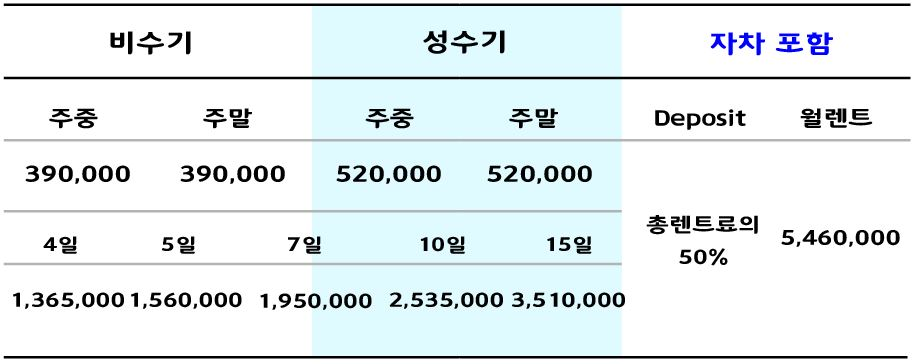
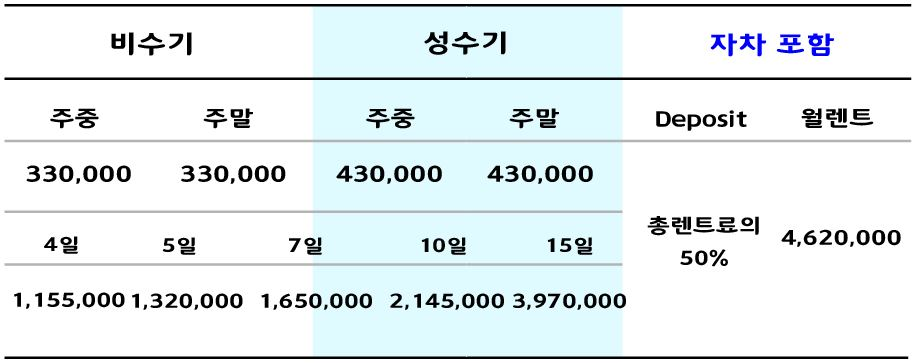
travel 캠핑카 가격 수정

diff --git a/src/main/resources/templates/index.html b/src/main/resources/templates/index.html
@@ -146,213 +146,213 @@
 
 
     <!--home mobile Section -->
-    <section id="home" class="home">
-        <div class="container" style="padding: 0px;">
-            <div class="row">
-                <div class="col-sm-12 col-lg-12 col-xs-12 col-md-12" style="margin-top: 105px;">
-                    <div class="service-block-mobile text-center align-center">
+<!--    <section id="home" class="home">-->
+<!--        <div class="container" style="padding: 0px;">-->
+<!--            <div class="row">-->
+<!--                <div class="col-sm-12 col-lg-12 col-xs-12 col-md-12" style="margin-top: 105px;">-->
+<!--                    <div class="service-block-mobile text-center align-center">-->
 
-                        <!-- service content -->
-                        <div class="service-img-main ">
-                            <p>세이브카 Service</p>
-                        </div>
-                    </div>
-                </div>
-            </div>
+<!--                        &lt;!&ndash; service content &ndash;&gt;-->
+<!--                        <div class="service-img-main ">-->
+<!--                            <p>세이브카 Service</p>-->
+<!--                        </div>-->
+<!--                    </div>-->
+<!--                </div>-->
+<!--            </div>-->
 
-            <div class="row" style="margin-right: -5px; margin-left: -5px;">
-                <div class="col-sm-1 col-lg-1 col-xs-1 col-md-1">
+<!--            <div class="row" style="margin-right: -5px; margin-left: -5px;">-->
+<!--                <div class="col-sm-1 col-lg-1 col-xs-1 col-md-1">-->
 
-                </div>
-                <div class="col-sm-10 col-lg-10 col-xs-10 col-md-10">
-                    <a href="/rent/month">
-                        <div class="row" style="margin: 0 -20px; border: 2px solid #2b2d2c; border-radius: 20px; background: black">
-
-
-                            <div class="col-sm-6 col-lg-6 col-xs-6 col-md-6" style="margin-top: 25px;">
-                                <div class="service-block-mobile text-center align-center">
-                                    <img th:src="@{/img/main-card-monthly.png}" width="70%" height="100" style="border-radius: 30%">
-                                </div>
-                            </div>
-                            <div class="col-sm-6 col-lg-6 col-xs-6 col-md-6">
-                                <div class="row">
-
-                                    <!-- service block -->
-                                    <div class="service-content-mobile text-center" style="height: 80px; padding: 20px 20px 0 0; line-height: 0;">
-                                        <h2 style="font-family: 'Black Han Sans', sans-serif;color: whitesmoke;margin: 0;">월렌트+</h2>
-                                        <h2 style="font-family: 'Black Han Sans', sans-serif;color: whitesmoke;margin: 0;">12/24개월렌트</h2>
-                                    </div>
-                                    <br>
-                                    <!-- service content -->
-    <!--                                    <div class="service-img-main" style="padding-top: 40px;">-->
-    <!--                                        <p style="font-size: 1.6rem; color: whitesmoke; margin: 0px;">월 단위로 대여하는 상품입니다.</p>-->
-    <!--                                        <p style="font-size: 1.6rem; color: whitesmoke">실시간으로 가격을 조회해보실 수 있습니다.</p>-->
-    <!--                                    </div>-->
-
-                                </div>
-                                <div class="row">
-
-                                    <!-- service img -->
-                                    <div class="service-content text-center"  style="padding: 0 20px 0 0; margin-bottom: 15px">
-                                        <img th:src="@{/img/arrow1.png}" width="30" height="30"  style="border-radius: 50%">
-                                    </div>
-
-                                </div>
-
-                            </div>
-                        </div>
-                    </a>
-                </div>
-
-                <div class="col-sm-1 col-lg-1 col-xs-1 col-md-1">
-
-                </div>
-            </div>
-
-            <!-- -->
-
-            <div class="row" style="margin-right: -5px; margin-left: -5px;">
-                <div class="col-sm-1 col-lg-1 col-xs-1 col-md-1">
-
-                </div>
-                <div class="col-sm-10 col-lg-10 col-xs-10 col-md-10">
-                    <a href="/rent/month">
-                        <div class="row" style="margin: 0 -20px; border: 2px solid #c70808; border-radius: 20px; background: white">
+<!--                </div>-->
+<!--                <div class="col-sm-10 col-lg-10 col-xs-10 col-md-10">-->
+<!--                    <a href="/rent/month">-->
+<!--                        <div class="row" style="margin: 0 -20px; border: 2px solid #2b2d2c; border-radius: 20px; background: black">-->
 
 
-                            <div class="col-sm-6 col-lg-6 col-xs-6 col-md-6" style="margin-top: 25px;">
-                                <div class="service-block-mobile text-center align-center">
-                                    <img th:src="@{/img/main-card-yearly.png}" width="70%" height="100" style="border-radius: 30%">
-                                </div>
-                            </div>
-                            <div class="col-sm-6 col-lg-6 col-xs-6 col-md-6">
-                                <div class="row">
+<!--                            <div class="col-sm-6 col-lg-6 col-xs-6 col-md-6" style="margin-top: 25px;">-->
+<!--                                <div class="service-block-mobile text-center align-center">-->
+<!--                                    <img th:src="@{/img/main-card-monthly.png}" width="70%" height="100" style="border-radius: 30%">-->
+<!--                                </div>-->
+<!--                            </div>-->
+<!--                            <div class="col-sm-6 col-lg-6 col-xs-6 col-md-6">-->
+<!--                                <div class="row">-->
 
-                                    <!-- service block -->
-                                    <div class="service-content-mobile text-center" style="height: 80px; padding: 20px 20px 0 0; line-height: 0;">
-                                        <h2 style="font-family: 'Black Han Sans', sans-serif;color: black;margin: 0;">누구나</h2>
-                                        <h2 style="font-family: 'Black Han Sans', sans-serif;color: black;margin: 0;">장기렌트</h2>
-                                    </div>
-                                    <br>
-                                    <!-- service content -->
-                                    <!--                                    <div class="service-img-main" style="padding-top: 40px;">-->
-                                    <!--                                        <p style="font-size: 1.6rem; color: whitesmoke; margin: 0px;">월 단위로 대여하는 상품입니다.</p>-->
-                                    <!--                                        <p style="font-size: 1.6rem; color: whitesmoke">실시간으로 가격을 조회해보실 수 있습니다.</p>-->
-                                    <!--                                    </div>-->
+<!--                                    &lt;!&ndash; service block &ndash;&gt;-->
+<!--                                    <div class="service-content-mobile text-center" style="height: 80px; padding: 20px 20px 0 0; line-height: 0;">-->
+<!--                                        <h2 style="font-family: 'Black Han Sans', sans-serif;color: whitesmoke;margin: 0;">월렌트+</h2>-->
+<!--                                        <h2 style="font-family: 'Black Han Sans', sans-serif;color: whitesmoke;margin: 0;">12/24개월렌트</h2>-->
+<!--                                    </div>-->
+<!--                                    <br>-->
+<!--                                    &lt;!&ndash; service content &ndash;&gt;-->
+<!--    &lt;!&ndash;                                    <div class="service-img-main" style="padding-top: 40px;">&ndash;&gt;-->
+<!--    &lt;!&ndash;                                        <p style="font-size: 1.6rem; color: whitesmoke; margin: 0px;">월 단위로 대여하는 상품입니다.</p>&ndash;&gt;-->
+<!--    &lt;!&ndash;                                        <p style="font-size: 1.6rem; color: whitesmoke">실시간으로 가격을 조회해보실 수 있습니다.</p>&ndash;&gt;-->
+<!--    &lt;!&ndash;                                    </div>&ndash;&gt;-->
 
-                                </div>
-                                <div class="row">
+<!--                                </div>-->
+<!--                                <div class="row">-->
 
-                                    <!-- service img -->
-                                    <div class="service-content text-center"  style="padding: 0 20px 0 0; margin-bottom: 15px">
-                                        <img th:src="@{/img/arrow1.png}" width="30" height="30"  style="border-radius: 50%">
-                                    </div>
+<!--                                    &lt;!&ndash; service img &ndash;&gt;-->
+<!--                                    <div class="service-content text-center"  style="padding: 0 20px 0 0; margin-bottom: 15px">-->
+<!--                                        <img th:src="@{/img/arrow1.png}" width="30" height="30"  style="border-radius: 50%">-->
+<!--                                    </div>-->
 
-                                </div>
+<!--                                </div>-->
 
-                            </div>
-                        </div>
-                    </a>
-                </div>
+<!--                            </div>-->
+<!--                        </div>-->
+<!--                    </a>-->
+<!--                </div>-->
 
-                <div class="col-sm-1 col-lg-1 col-xs-1 col-md-1">
+<!--                <div class="col-sm-1 col-lg-1 col-xs-1 col-md-1">-->
 
-                </div>
-            </div>
+<!--                </div>-->
+<!--            </div>-->
 
-            <!-- -->
-            <div class="row" style="margin-right: -5px; margin-left: -5px;">
-                <div class="col-sm-1 col-lg-1 col-xs-1 col-md-1">
+<!--            &lt;!&ndash; &ndash;&gt;-->
 
-                </div>
-                <div class="col-sm-10 col-lg-10 col-xs-10 col-md-10">
-                    <a href="/rent/month">
-                        <div class="row" style="margin: 0 -20px; border: 2px solid #4e4c4c; border-radius: 20px; background: #4e4c4c">
+<!--            <div class="row" style="margin-right: -5px; margin-left: -5px;">-->
+<!--                <div class="col-sm-1 col-lg-1 col-xs-1 col-md-1">-->
+
+<!--                </div>-->
+<!--                <div class="col-sm-10 col-lg-10 col-xs-10 col-md-10">-->
+<!--                    <a href="/rent/month">-->
+<!--                        <div class="row" style="margin: 0 -20px; border: 2px solid #c70808; border-radius: 20px; background: white">-->
 
 
-                            <div class="col-sm-6 col-lg-6 col-xs-6 col-md-6" style="margin-top: 25px;">
-                                <div class="service-block-mobile text-center align-center">
-                                    <img th:src="@{/img/main-card-camp.png}" width="70%" height="100" style="border-radius: 30%">
-                                </div>
-                            </div>
-                            <div class="col-sm-6 col-lg-6 col-xs-6 col-md-6">
-                                <div class="row">
+<!--                            <div class="col-sm-6 col-lg-6 col-xs-6 col-md-6" style="margin-top: 25px;">-->
+<!--                                <div class="service-block-mobile text-center align-center">-->
+<!--                                    <img th:src="@{/img/main-card-yearly.png}" width="70%" height="100" style="border-radius: 30%">-->
+<!--                                </div>-->
+<!--                            </div>-->
+<!--                            <div class="col-sm-6 col-lg-6 col-xs-6 col-md-6">-->
+<!--                                <div class="row">-->
 
-                                    <!-- service block -->
-                                    <div class="service-content-mobile text-center" style="height: 80px; padding: 20px 20px 0 0; line-height: 0;">
-                                        <h2 style="font-family: 'Black Han Sans', sans-serif;color: whitesmoke;margin: 0;"></h2>
-                                        <h2 style="font-family: 'Black Han Sans', sans-serif;color: whitesmoke;margin: 0;">캠핑카렌트</h2>
-                                    </div>
-                                    <br>
-                                    <!-- service content -->
-                                    <!--                                    <div class="service-img-main" style="padding-top: 40px;">-->
-                                    <!--                                        <p style="font-size: 1.6rem; color: whitesmoke; margin: 0px;">월 단위로 대여하는 상품입니다.</p>-->
-                                    <!--                                        <p style="font-size: 1.6rem; color: whitesmoke">실시간으로 가격을 조회해보실 수 있습니다.</p>-->
-                                    <!--                                    </div>-->
+<!--                                    &lt;!&ndash; service block &ndash;&gt;-->
+<!--                                    <div class="service-content-mobile text-center" style="height: 80px; padding: 20px 20px 0 0; line-height: 0;">-->
+<!--                                        <h2 style="font-family: 'Black Han Sans', sans-serif;color: black;margin: 0;">누구나</h2>-->
+<!--                                        <h2 style="font-family: 'Black Han Sans', sans-serif;color: black;margin: 0;">장기렌트</h2>-->
+<!--                                    </div>-->
+<!--                                    <br>-->
+<!--                                    &lt;!&ndash; service content &ndash;&gt;-->
+<!--                                    &lt;!&ndash;                                    <div class="service-img-main" style="padding-top: 40px;">&ndash;&gt;-->
+<!--                                    &lt;!&ndash;                                        <p style="font-size: 1.6rem; color: whitesmoke; margin: 0px;">월 단위로 대여하는 상품입니다.</p>&ndash;&gt;-->
+<!--                                    &lt;!&ndash;                                        <p style="font-size: 1.6rem; color: whitesmoke">실시간으로 가격을 조회해보실 수 있습니다.</p>&ndash;&gt;-->
+<!--                                    &lt;!&ndash;                                    </div>&ndash;&gt;-->
 
-                                </div>
-                                <div class="row">
+<!--                                </div>-->
+<!--                                <div class="row">-->
 
-                                    <!-- service img -->
-                                    <div class="service-content text-center"  style="padding: 0 20px 0 0; margin-bottom: 15px">
-                                        <img th:src="@{/img/arrow1.png}" width="30" height="30"  style="border-radius: 50%">
-                                    </div>
+<!--                                    &lt;!&ndash; service img &ndash;&gt;-->
+<!--                                    <div class="service-content text-center"  style="padding: 0 20px 0 0; margin-bottom: 15px">-->
+<!--                                        <img th:src="@{/img/arrow1.png}" width="30" height="30"  style="border-radius: 50%">-->
+<!--                                    </div>-->
 
-                                </div>
+<!--                                </div>-->
 
-                            </div>
-                        </div>
-                    </a>
-                </div>
+<!--                            </div>-->
+<!--                        </div>-->
+<!--                    </a>-->
+<!--                </div>-->
 
-                <div class="col-sm-1 col-lg-1 col-xs-1 col-md-1">
+<!--                <div class="col-sm-1 col-lg-1 col-xs-1 col-md-1">-->
 
-                </div>
-            </div>
+<!--                </div>-->
+<!--            </div>-->
 
-        </div>
-    </section>
+<!--            &lt;!&ndash; &ndash;&gt;-->
+<!--            <div class="row" style="margin-right: -5px; margin-left: -5px;">-->
+<!--                <div class="col-sm-1 col-lg-1 col-xs-1 col-md-1">-->
+
+<!--                </div>-->
+<!--                <div class="col-sm-10 col-lg-10 col-xs-10 col-md-10">-->
+<!--                    <a href="/rent/month">-->
+<!--                        <div class="row" style="margin: 0 -20px; border: 2px solid #4e4c4c; border-radius: 20px; background: #4e4c4c">-->
+
+
+<!--                            <div class="col-sm-6 col-lg-6 col-xs-6 col-md-6" style="margin-top: 25px;">-->
+<!--                                <div class="service-block-mobile text-center align-center">-->
+<!--                                    <img th:src="@{/img/main-card-camp.png}" width="70%" height="100" style="border-radius: 30%">-->
+<!--                                </div>-->
+<!--                            </div>-->
+<!--                            <div class="col-sm-6 col-lg-6 col-xs-6 col-md-6">-->
+<!--                                <div class="row">-->
+
+<!--                                    &lt;!&ndash; service block &ndash;&gt;-->
+<!--                                    <div class="service-content-mobile text-center" style="height: 80px; padding: 20px 20px 0 0; line-height: 0;">-->
+<!--                                        <h2 style="font-family: 'Black Han Sans', sans-serif;color: whitesmoke;margin: 0;"></h2>-->
+<!--                                        <h2 style="font-family: 'Black Han Sans', sans-serif;color: whitesmoke;margin: 0;">캠핑카렌트</h2>-->
+<!--                                    </div>-->
+<!--                                    <br>-->
+<!--                                    &lt;!&ndash; service content &ndash;&gt;-->
+<!--                                    &lt;!&ndash;                                    <div class="service-img-main" style="padding-top: 40px;">&ndash;&gt;-->
+<!--                                    &lt;!&ndash;                                        <p style="font-size: 1.6rem; color: whitesmoke; margin: 0px;">월 단위로 대여하는 상품입니다.</p>&ndash;&gt;-->
+<!--                                    &lt;!&ndash;                                        <p style="font-size: 1.6rem; color: whitesmoke">실시간으로 가격을 조회해보실 수 있습니다.</p>&ndash;&gt;-->
+<!--                                    &lt;!&ndash;                                    </div>&ndash;&gt;-->
+
+<!--                                </div>-->
+<!--                                <div class="row">-->
+
+<!--                                    &lt;!&ndash; service img &ndash;&gt;-->
+<!--                                    <div class="service-content text-center"  style="padding: 0 20px 0 0; margin-bottom: 15px">-->
+<!--                                        <img th:src="@{/img/arrow1.png}" width="30" height="30"  style="border-radius: 50%">-->
+<!--                                    </div>-->
+
+<!--                                </div>-->
+
+<!--                            </div>-->
+<!--                        </div>-->
+<!--                    </a>-->
+<!--                </div>-->
+
+<!--                <div class="col-sm-1 col-lg-1 col-xs-1 col-md-1">-->
+
+<!--                </div>-->
+<!--            </div>-->
+
+<!--        </div>-->
+<!--    </section>-->
     <!--End of home section -->
 
 
     <!--home mobile Section -->
-<!--    <section id="home" class="home">-->
-<!--        <div class="overlay">-->
-<!--            <div class="home_skew_border">-->
-<!--                <div class="container">-->
-<!--                    <div class="row">-->
-<!--                        <div class="col-sm-12 col-lg-12 col-xs-12 col-md-12 main_clogo">-->
+    <section id="home" class="home">
+        <div class="overlay">
+            <div class="home_skew_border">
+                <div class="container">
+                    <div class="row">
+                        <div class="col-sm-12 col-lg-12 col-xs-12 col-md-12 main_clogo">
 
 
-<!--                            <div class="main_home_slider text-center">-->
-<!--                                <div class="single_home_slider">-->
-<!--                                    <div class="main_home wow fadeInUp" data-wow-duration="700ms">-->
+                            <div class="main_home_slider text-center">
+                                <div class="single_home_slider">
+                                    <div class="main_home wow fadeInUp" data-wow-duration="700ms">
 
 
-<!--                                        <h3 class="index-text">WELCOME TO SAVE-CAR</h3>-->
-<!--                                        <h1 class="index-text"><b>세이브카 사이트 가격오픈</b></h1>-->
-<!--                                        <div class="separator"></div>-->
-<!--                                        <h3 class="index-text">다양한 차량 제공 및 고객의 안전을 최우선으로 한 정비-->
-<!--                                            <br> 그리고 더욱 더 저렴한 렌트료 제공으로 고객의 만족을 위한 세이브카가 되겠습니다.</h3>-->
-<!--                                        <br>-->
-<!--                                        <div class="home_btn">-->
-<!--                                            <a class="btn1 btn2-default" href="tel:1661-3331" style="font-size: medium; font-weight: bold; margin: 2.5px; width: 240px; height: 50px;">1661-3331 &nbsp; <img th:src="@{/img/callblack.png}" style="max-width: 100%; vertical-align: middle; width: 25px; height: 25px; display: inline-block"> </a>-->
-<!--                                            <a class="btn1 btn2-default" href="sms:010-5277-4113" style="font-size: medium; font-weight: bold; margin: 2.5px;width: 240px; height: 50px;">간단 문자보내기  &nbsp; <img th:src="@{/img/email2.png}" style="max-width: 100%; vertical-align: middle; width: 25px; height: 25px; display: inline-block"></a>-->
-<!--                                        </div>-->
-<!--                                    </div>-->
-<!--                                </div>-->
-<!--                            </div>-->
-<!--                        </div>-->
-<!--                    </div>-->
-<!--                </div>-->
-<!--                <div class="scrooldown">-->
-<!--                    <a href="#trial"><i class="fa fa-arrow-down"></i></a>-->
-<!--                </div>-->
-<!--            </div>-->
-<!--            <div>-->
-<!--            </div>-->
-<!--        </div>-->
-<!--    </section>-->
+                                        <h3 class="index-text">WELCOME TO SAVE-CAR</h3>
+                                        <h1 class="index-text"><b>세이브카 사이트 가격오픈</b></h1>
+                                        <div class="separator"></div>
+                                        <h3 class="index-text">다양한 차량 제공 및 고객의 안전을 최우선으로 한 정비
+                                            <br> 그리고 더욱 더 저렴한 렌트료 제공으로 고객의 만족을 위한 세이브카가 되겠습니다.</h3>
+                                        <br>
+                                        <div class="home_btn">
+                                            <a class="btn1 btn2-default" href="tel:1661-3331" style="font-size: medium; font-weight: bold; margin: 2.5px; width: 240px; height: 50px;">1661-3331 &nbsp; <img th:src="@{/img/callblack.png}" style="max-width: 100%; vertical-align: middle; width: 25px; height: 25px; display: inline-block"> </a>
+                                            <a class="btn1 btn2-default" href="sms:010-5277-4113" style="font-size: medium; font-weight: bold; margin: 2.5px;width: 240px; height: 50px;">간단 문자보내기  &nbsp; <img th:src="@{/img/email2.png}" style="max-width: 100%; vertical-align: middle; width: 25px; height: 25px; display: inline-block"></a>
+                                        </div>
+                                    </div>
+                                </div>
+                            </div>
+                        </div>
+                    </div>
+                </div>
+                <div class="scrooldown">
+                    <a href="#trial"><i class="fa fa-arrow-down"></i></a>
+                </div>
+            </div>
+            <div>
+            </div>
+        </div>
+    </section>
     <!--End of home section -->
 
 
